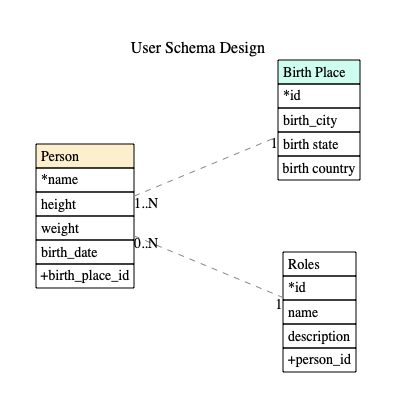
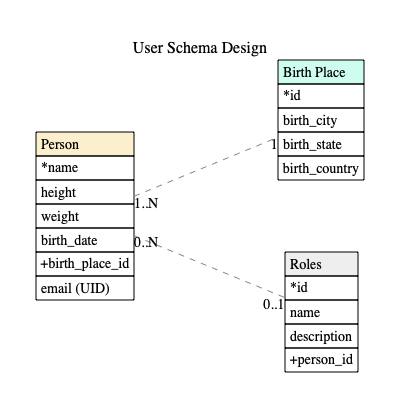
docs(readme): update readme

diff --git a/main.go b/main.go
@@ -32,7 +32,7 @@ func main() {
 		}
 	}
 	{
-		re := regexp.MustCompile(`(?m)(\[.+\]([{}:"#\n\s\w]+)?[\s\w\n*+]+$)`)
+		re := regexp.MustCompile(`(?m)(\[.+\]([{}:"#\n\s\w]+)?[\s\w\n*+()]+$)`)
 		result := re.FindAllStringSubmatch(raw, -1)
 		for _, entities := range result {
 			entity := parseEntity(entities[0])

diff --git a/README.md b/README.md
@@ -1,10 +1,17 @@
 # go-erd
 
-Converts this text into an Entity Relationship Diagram:
+## MOTIVATION :muscle
+
+Create ER (Entity-Relationship) diagrams can be a pain, especially when you need to update them. I find writing the schema as text to be the easiest to maintain, at the same time I would like to see a visual representation of the schema. The endgoal is to create something similar like Markdown, where one can just edit and preview the changes on the go.
+
+This will converts the text below into an Entity Relationship Diagram:
 
 ```
+# Comments will be skipped :)
+# Optionally, we can add titles.
 Title: User Schema Design
 
+# Entities.
 [Person] {"color": "#fcefce" }
 *name
 height
@@ -15,28 +22,76 @@ birth_date
 [Birth Place] {"color": "#cefcef" }
 *id
 birth_city
-birth state
-birth country
+birth_state
+birth_country
 
-[Roles]
+[Roles] {"color": "#eeeeee"}
 *id
 name
 description
-+person_id
+*+person_id
 
-# Each relationship must be between exactly two entities, which need not
-# be distinct. Each entity in the relationship has exactly one of four
-# possible cardinalities:
-#
-# Cardinality    Syntax
-# 0 or 1         ?
-# exactly 1      1
-# 0 or more      *
-# 1 or more      +
+# Relationships.
 Person +--1 Birth Place
-Person *--1 Roles
+Person *--? Roles
 ```
 
 Output:
 
 ![out.png](./assets/out.png)
+
+
+# Specification
+
+## ENTITY
+
+Entity represents your table. Below is a sample of the `Roles` table:
+
+```
+[Roles] {"color": "#eeeeee"}
+*id
+name
+description
+*+person_id
+```
+
+The name of the Entity must be wrapped in `[]` square brackets, and it may follow an option to configure the table color (NOTE: Only valid CSS color names, e.g. red, green or six character hex code is valid, so `#333` will not be rendered correctly).
+
+Aside from that, there are other operators that we can use to assign to our diagram:
+```
+* - represents a primary key
++ - represents a foreign key
++* - represents both a foreign and primary key
+```
+
+To represent other constraints, such as unique key or types, we can just add it as follow:
+
+```
+[Person]
+email, text (UID)
+```
+
+Simple is best :smile:
+
+## RELATIONSHIP
+
+Each relationship must be between exactly two entities, which need not
+be distinct. Each entity in the relationship has exactly one of four
+possible cardinalities:
+
+| Cardinality | Syntax |
+| -- | -- |
+| 0 or 1 |        ? |
+| exactly 1 |     1 |
+| 0 or more |     * |
+| 1 or more |     + |
+
+And we represent them in the format:
+
+```
+# A Person has exactly one birth place, but one or more Birth Place may belong to many people.
+Person +--1 Birth Place
+
+# A person can have 0 or 1 role, and a role may belong to 0 or many people.
+Person *--? Roles
+```
